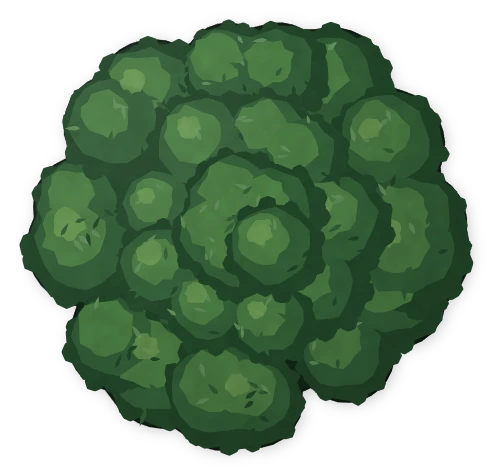
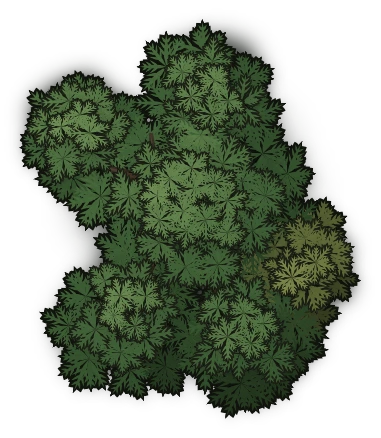
older trees share the forest tree's inked crowns
garden trees, shrubs, oaks and snowy trees reuse the forest crown
with their own palettes and leaf scale.

diff --git a/src/procedural/pesados/plantas.ts b/src/procedural/pesados/plantas.ts
@@ -46,7 +46,7 @@ function copaDeTufos(diametro: number, seed: number, tons: Tons, { miudo = 0.3, 
   return { tipo: 'piso', pegada: [diametro, diametro], partes };
 }
 
-const copaRedonda = (diametro: number, seed: number): DescricaoDePiso => copaDeTufos(diametro, seed, VERDE_CLARO, { miudo: 0.15, folhas: 9 });
+const copaRedonda = (diametro: number, seed: number): DescricaoDePiso => copaDeRaminhos(diametro, seed, { tons: JARDIM, variantes: [JARDIM_SOL, JARDIM_FRIO], folha: Math.min(0.85, 0.45 + diametro * 0.07), ralo: 0 });
 
 /**
  * Conífera vista de cima: silhueta de muitas pontas irregulares e, por cima, cinco camadas de ramos em lente fina, do escuro de fora ao claro
@@ -80,17 +80,27 @@ function conifera(diametro: number, seed: number, neve: boolean): DescricaoDePis
 
 const pinheiro = (diametro: number, seed: number): DescricaoDePiso => conifera(diametro, seed, false);
 /** Árvore vista de cima coberta de neve: copa de tufos brancos sombreados de azul, o verde só nas frestas. */
-const arvoreNevada = (diametro: number, seed: number): DescricaoDePiso => copaDeTufos(diametro, seed, NEVE, { miudo: 0.2, folhas: 0, tronco: false, recorte: 0 });
+const arvoreNevada = (diametro: number, seed: number): DescricaoDePiso => copaDeRaminhos(diametro, seed, { tons: NEVADA, variantes: [NEVADA_SOL, NEVADA_FRIA], folha: 0.9, ralo: 0.15, nanquim: ['#1a2330', '#2c3846'], galhos: '#3a3430' });
 /** Pinheiro de neve: a conífera com neve sobre cada ramo, do lado da luz. */
 const pinheiroNevado = (diametro: number, seed: number): DescricaoDePiso => conifera(diametro, seed, true);
 /** Carvalho: copa densa de muitos tufos pequenos, com folhas pintadas. */
-const carvalhoGrande = (diametro: number, seed: number): DescricaoDePiso => copaDeTufos(diametro, seed, VERDE, { miudo: 0.85, folhas: 7 });
+const carvalhoGrande = (diametro: number, seed: number): DescricaoDePiso => copaDeRaminhos(diametro, seed, { tons: CARVALHO, variantes: [CARVALHO_SOL, CARVALHO_FRIO], folha: 0.8, ralo: 0.05 });
 
 /** Tons da mata fechada: verde-oliva acinzentado, com moitas amareladas e outras mais frias (ver `copaDeRaminhos`). */
 const OLIVA: Tons = { fundo: '#272a1c', base: '#4a4e33', meio: '#5e633e', luz: '#777b4d', brilho: '#91935e' };
 const AMARELADO: Tons = { fundo: '#30291a', base: '#56492b', meio: '#6a5b35', luz: '#806e42', brilho: '#968352' };
 const FRIO: Tons = { fundo: '#20271e', base: '#384332', meio: '#46533f', luz: '#58654e', brilho: '#6f7b62' };
 const NANQUIM = '#12150e';
+/** Verdes das copas de raminhos fora da mata: carvalho (fundo e frio), jardim (vivo) e neve (branco sobre azul, o verde só nas frestas). */
+const CARVALHO: Tons = { fundo: '#1c2a17', base: '#33502c', meio: '#43663a', luz: '#5a7e48', brilho: '#76985a' };
+const CARVALHO_SOL: Tons = { fundo: '#2a2c18', base: '#4e582e', meio: '#64703a', luz: '#7e8a4a', brilho: '#98a25c' };
+const CARVALHO_FRIO: Tons = { fundo: '#16241c', base: '#2a4234', meio: '#365440', luz: '#466a50', brilho: '#5c8064' };
+const JARDIM: Tons = { fundo: '#1e3018', base: '#3a5e2e', meio: '#4c763a', luz: '#64904a', brilho: '#84ac5e' };
+const JARDIM_SOL: Tons = { fundo: '#2c3418', base: '#566a2e', meio: '#6c843a', luz: '#889e4a', brilho: '#a6b85e' };
+const JARDIM_FRIO: Tons = { fundo: '#1c2e1e', base: '#345634', meio: '#426a40', luz: '#568252', brilho: '#6e9a68' };
+const NEVADA: Tons = { fundo: '#3a4c58', base: '#9aaec4', meio: '#c4d2e2', luz: '#e4ecf4', brilho: '#ffffff' };
+const NEVADA_SOL: Tons = { fundo: '#465860', base: '#a8b8c8', meio: '#d0dce6', luz: '#eef2f6', brilho: '#ffffff' };
+const NEVADA_FRIA: Tons = { fundo: '#2e4050', base: '#8aa0ba', meio: '#b2c4da', luz: '#d6e2f0', brilho: '#f2f6fb' };
 /** A cor entre `a` e `b` (t de 0 a 1): os raminhos variam em tons contínuos, não em degraus. */
 function misturar(a: string, b: string, t: number): string {
   const p = (h: string, k: number) => parseInt(h.slice(1 + k * 2, 3 + k * 2), 16), c = [0, 1, 2].map(k => Math.round(p(a, k) + (p(b, k) - p(a, k)) * t));
@@ -126,11 +136,11 @@ function desenharRaminho(partes: Parte[], f: Raminho, cor: string, z: number, en
  * seguem as pontas das folhas. Moitas de tamanhos bem diferentes dão o contorno irregular; galhos aparecem entre as camadas; os vãos são
  * escuros. A luz vem do noroeste. `ralo` (0 a 1) espaça os raminhos.
  */
-function copaDeRaminhos(diametro: number, seed: number, { ralo = 0.2, tons = OLIVA }: { ralo?: number; tons?: Tons } = {}): DescricaoDePiso {
-  const r = mulberry32(seed), R = diametro / 2 - 0.3, partes: Parte[] = [];
+function copaDeRaminhos(diametro: number, seed: number, { ralo = 0.2, tons = OLIVA, variantes = [AMARELADO, FRIO], folha = 1, nanquim = [NANQUIM, '#1d2116'], galhos = '#4a3828' }: { ralo?: number; tons?: Tons; variantes?: readonly [Tons, Tons]; folha?: number; nanquim?: readonly [string, string]; galhos?: string } = {}): DescricaoDePiso {
+  const r = mulberry32(seed), R = diametro / 2 - 0.3 * folha, partes: Parte[] = [];
   // Moitas: uma grande perto do miolo e de 2 a 6 em volta, com raios bem diferentes; a copa é a união delas.
   const moitas: { x: number; y: number; r: number; tons: Tons }[] = [];
-  const variar = (): Tons => (r() < 0.14 ? (r() < 0.4 ? AMARELADO : FRIO) : tons);
+  const variar = (): Tons => (r() < 0.14 ? (r() < 0.4 ? variantes[0] : variantes[1]) : tons);
   moitas.push({ x: (r() - 0.5) * R * 0.25, y: (r() - 0.5) * R * 0.25, r: R * (0.5 + r() * 0.1), tons: variar() });
   const nM = 2 + Math.floor(R * 0.8 + r() * 2), giro = r() * Math.PI * 2;
   for (let i = 0; i < nM; i++) {
@@ -143,10 +153,10 @@ function copaDeRaminhos(diametro: number, seed: number, { ralo = 0.2, tons = OLI
   const nG = 4 + Math.floor(r() * 3);
   for (let i = 0; i < nG; i++) {
     const a = (i / nG) * Math.PI * 2 + r() * 0.7, len = R * (0.38 + r() * 0.18), mx = Math.cos(a) * len * 0.5 + (r() - 0.5) * 0.3, my = Math.sin(a) * len * 0.5 + (r() - 0.5) * 0.3;
-    partes.push(tira([0, 0, mx, my, Math.cos(a + (r() - 0.5) * 0.4) * len, Math.sin(a + (r() - 0.5) * 0.4) * len], 0.1 + R * 0.025, '#4a3828', 2.12, { contorno: 'leve', semSombra: true, detalhe: 1 }, 0.3));
+    partes.push(tira([0, 0, mx, my, Math.cos(a + (r() - 0.5) * 0.4) * len, Math.sin(a + (r() - 0.5) * 0.4) * len], (0.1 + R * 0.025) * Math.min(1, folha * 1.5), galhos, 2.12, { contorno: 'leve', semSombra: true, detalhe: 1 }, 0.3));
   }
   // Camadas: raio do raminho, até onde vai na moita e a altura.
-  const camadas = [{ raio: 0.68, alcance: 0.92, z: 2 }, { raio: 0.56, alcance: 0.66, z: 2.3 }, { raio: 0.45, alcance: 0.4, z: 2.6 }];
+  const camadas = [{ raio: 0.68 * folha, alcance: 0.92, z: 2 }, { raio: 0.56 * folha, alcance: 0.66, z: 2.3 }, { raio: 0.45 * folha, alcance: 0.4, z: 2.6 }];
   camadas.forEach((cam, c) => {
     const lista: { f: Raminho; cor: string }[] = [], minimo = cam.raio * (0.85 + ralo * 0.6);
     for (const m of moitas) {
@@ -164,7 +174,7 @@ function copaDeRaminhos(diametro: number, seed: number, { ralo = 0.2, tons = OLI
     }
     // Os de fora primeiro: o miolo fica por cima.
     lista.sort((p, q) => Math.hypot(q.f.x, q.f.y) - Math.hypot(p.f.x, p.f.y));
-    for (const { f } of lista) desenharRaminho(partes, f, c === 0 ? NANQUIM : '#1d2116', cam.z, c === 0 ? 0.05 : 0.032, true);
+    for (const { f } of lista) desenharRaminho(partes, f, nanquim[c === 0 ? 0 : 1], cam.z, (c === 0 ? 0.05 : 0.032) * Math.min(1, folha * 1.4), true);
     lista.forEach(({ f, cor }, i) => desenharRaminho(partes, f, cor, cam.z + 0.01 + (i / lista.length) * 0.02, 0, false));
   });
   return { tipo: 'piso', pegada: [diametro, diametro], partes };
@@ -204,8 +214,8 @@ function folhagemTropical(diametro: number, seed: number): DescricaoDePiso {
 }
 
 function arbusto(diametro: number, seed: number, flores: string | null): DescricaoDePiso {
-  const g = copaDeTufos(diametro, seed, VERDE_CLARO, { miudo: 0.4, folhas: 3, tronco: false }), r = mulberry32(seed + 5), partes = g.partes;
-  if (flores) for (let i = 0; i < 26; i++) { const a = r() * Math.PI * 2, d = (diametro / 2) * Math.sqrt(r()) * 0.85; partes.push(elipse(Math.cos(a) * d, Math.sin(a) * d, 0.07, 0.07, flores, 5.5 + r() * 0.2, { contorno: false, semSombra: true, detalhe: 3 })); }
+  const g = copaDeRaminhos(diametro, seed, { tons: JARDIM, variantes: [JARDIM_SOL, JARDIM_FRIO], folha: 0.36, ralo: 0 }), r = mulberry32(seed + 5), partes = g.partes;
+  if (flores) for (let i = 0; i < 26; i++) { const a = r() * Math.PI * 2, d = (diametro / 2) * Math.sqrt(r()) * 0.5; partes.push(elipse(Math.cos(a) * d, Math.sin(a) * d, 0.07, 0.07, flores, 5.5 + r() * 0.2, { contorno: false, semSombra: true, detalhe: 3 })); }
   return { tipo: 'piso', pegada: g.pegada, partes };
 }
 
@@ -258,22 +268,22 @@ export const PLANTAS: GeradorPesado[] = [
     variantes: DUAS('a', {}, 'b', {}), gerar: p => samambaia(p.seed) },
   { id: 'costela-de-adao', nome: 'Costela-de-adão', categoria: 'decoracao', funcoes: ['sala', 'quarto', 'escritorio', 'corredor'], tags: ['planta', 'monstera', 'vaso', 'folhagem'], generos: [], kit: null, versao: 1,
     variantes: DUAS('madeira', { vaso: 'madeira.escura' }, 'pedra', { vaso: 'pedra.escura' }), gerar: p => monstera(p.seed, String(p.params.vaso ?? 'madeira.escura')) },
-  { id: 'arvore', altura: ([w]) => w * 1.6, nome: 'Árvore', categoria: 'exterior', funcoes: ['jardim'], tags: ['arvore', 'planta', 'copa', 'exterior'], generos: [], kit: 'exterior', versao: 3, res: 64,
+  { id: 'arvore', altura: ([w]) => w * 1.6, nome: 'Árvore', categoria: 'exterior', funcoes: ['jardim'], tags: ['arvore', 'planta', 'copa', 'exterior'], generos: [], kit: 'exterior', versao: 5, res: 64,
     variantes: [{ nome: '3 m', sufixo: '3m', params: { diametro: 3 }, seed: 31 }, { nome: '5 m', sufixo: '5m', params: { diametro: 5 }, seed: 32 }, { nome: '7 m', sufixo: '7m', params: { diametro: 7 }, seed: 33 }],
     gerar: p => copaRedonda(num(p.params.diametro, 5, 2, 10), p.seed) },
   { id: 'pinheiro', altura: ([w]) => w * 2, nome: 'Pinheiro', categoria: 'exterior', funcoes: ['jardim'], tags: ['arvore', 'pinheiro', 'conifera', 'exterior'], generos: [], kit: 'exterior', versao: 3, res: 64,
     variantes: [{ nome: '3 m', sufixo: '3m', params: { diametro: 3 }, seed: 41 }, { nome: '4,5 m', sufixo: '4m', params: { diametro: 4.5 }, seed: 42 }], gerar: p => pinheiro(num(p.params.diametro, 3, 2, 8), p.seed) },
-  { id: 'arbusto', altura: ([w]) => w * 0.5, nome: 'Arbusto', categoria: 'exterior', funcoes: ['jardim'], tags: ['arbusto', 'planta', 'exterior'], generos: [], kit: 'exterior', versao: 3,
+  { id: 'arbusto', altura: ([w]) => w * 0.5, nome: 'Arbusto', categoria: 'exterior', funcoes: ['jardim'], tags: ['arbusto', 'planta', 'exterior'], generos: [], kit: 'exterior', versao: 5,
     variantes: [{ nome: 'verde', sufixo: 'verde', params: { diametro: 1.4 }, seed: 51 }, { nome: 'florido', sufixo: 'florido', params: { diametro: 1.6, flores: '#d94a6a' }, seed: 52 }, { nome: 'grande', sufixo: 'grande', params: { diametro: 2.2 }, seed: 53 }],
     gerar: p => arbusto(num(p.params.diametro, 1.5, 0.8, 4), p.seed, typeof p.params.flores === 'string' ? p.params.flores : null) },
-  { id: 'arvore-nevada', altura: ([w]) => w * 1.6, nome: 'Árvore nevada', categoria: 'exterior', funcoes: ['jardim'], tags: ['arvore', 'planta', 'copa', 'exterior', 'inverno', 'neve'], generos: [], kit: 'ermos', versao: 3, res: 64,
+  { id: 'arvore-nevada', altura: ([w]) => w * 1.6, nome: 'Árvore nevada', categoria: 'exterior', funcoes: ['jardim'], tags: ['arvore', 'planta', 'copa', 'exterior', 'inverno', 'neve'], generos: [], kit: 'ermos', versao: 4, res: 64,
     variantes: [{ nome: '3 m', sufixo: '3m', params: { diametro: 3 }, seed: 61 }, { nome: '5 m', sufixo: '5m', params: { diametro: 5 }, seed: 62 }], gerar: p => arvoreNevada(num(p.params.diametro, 4, 2, 8), p.seed) },
   { id: 'pinheiro-nevado', altura: ([w]) => w * 2, nome: 'Pinheiro nevado', categoria: 'exterior', funcoes: ['jardim'], tags: ['arvore', 'pinheiro', 'conifera', 'exterior', 'inverno', 'neve'], generos: [], kit: 'ermos', versao: 3, res: 64,
     variantes: [{ nome: '3 m', sufixo: '3m', params: { diametro: 3 }, seed: 71 }, { nome: '4,5 m', sufixo: '4m', params: { diametro: 4.5 }, seed: 72 }], gerar: p => pinheiroNevado(num(p.params.diametro, 3, 2, 8), p.seed) },
   { id: 'arbusto-seco', altura: ([w]) => w * 0.4, nome: 'Arbusto seco', categoria: 'exterior', funcoes: ['jardim'], tags: ['arbusto', 'planta', 'exterior', 'inverno', 'seco'], generos: [], kit: 'ermos', versao: 2, res: 64,
     variantes: [{ nome: '1,2 m', sufixo: '1m', params: { diametro: 1.2 }, seed: 81 }, { nome: '2 m', sufixo: '2m', params: { diametro: 2 }, seed: 82 }, { nome: '2 m com neve', sufixo: '2m-neve', params: { diametro: 2, neve: true }, seed: 83 }],
     gerar: p => arbustoSeco(num(p.params.diametro, 1.5, 0.8, 4), p.seed, p.params.neve === true) },
-  { id: 'carvalho-grande', altura: ([w]) => w * 1.6, nome: 'Carvalho grande', categoria: 'exterior', funcoes: ['jardim'], tags: ['arvore', 'carvalho', 'planta', 'copa', 'exterior', 'mata'], generos: [], kit: 'mata', versao: 2, res: 64,
+  { id: 'carvalho-grande', altura: ([w]) => w * 1.6, nome: 'Carvalho grande', categoria: 'exterior', funcoes: ['jardim'], tags: ['arvore', 'carvalho', 'planta', 'copa', 'exterior', 'mata'], generos: [], kit: 'mata', versao: 3, res: 64,
     variantes: [{ nome: '6 m', sufixo: '6m', params: { diametro: 6 }, seed: 91 }, { nome: '7 m', sufixo: '7m', params: { diametro: 7 }, seed: 92 }, { nome: '8 m', sufixo: '8m', params: { diametro: 8 }, seed: 93 }], gerar: p => carvalhoGrande(num(p.params.diametro, 7, 5, 10), p.seed) },
   { id: 'arvore-da-mata', altura: ([w]) => w * 1.7, nome: 'Árvore da mata', categoria: 'exterior', funcoes: ['jardim'], tags: ['arvore', 'planta', 'copa', 'exterior', 'mata', 'floresta'], generos: [], kit: 'mata', versao: 12, res: 64,
     variantes: [{ nome: '4 m', sufixo: '4m', params: { diametro: 4 }, seed: 111 }, { nome: '6 m', sufixo: '6m', params: { diametro: 6 }, seed: 112 }, { nome: '8 m', sufixo: '8m', params: { diametro: 8 }, seed: 113 }, { nome: '6 m, ralinha', sufixo: '6m-rala', params: { diametro: 6, ralo: 0.7 }, seed: 114 }, { nome: '5 m, amarelada', sufixo: '5m-amarelada', params: { diametro: 5, tons: 'amarelado' }, seed: 115 }],

diff --git a/docs/plano/epocas-e-cenarios.md b/docs/plano/epocas-e-cenarios.md
@@ -264,7 +264,7 @@ Commit: `added post-apocalyptic and cyberpunk floors, walls and roofs`
 
 ## Bloco 5 — Biomas
 
-### Q13a — Árvores antigas no padrão novo  ⬜ **[Opus]**
+### Q13a — Árvores antigas no padrão novo  ✅ **[Opus]**
 Objetivo: `arvore`, `carvalho-grande`, `pinheiro`, `arbusto`, `arvore-nevada`, `pinheiro-nevado` e `arbusto-seco` ficam na mesma qualidade da `arvore-da-mata` v12 (copa em nanquim, folhas em tufos, luz e sombra próprias).
 Depende de: —. Vem antes da Q13, que usa a mesma técnica para as árvores dos biomas.
 Problema (captura do usuário no Jardim do Colosso, 2026-11-20): o `carvalho-grande` (v2) e a `arvore` (v3) são bolas lisas e genéricas ao lado da `arvore-da-mata` refeita para o Acampamento.
@@ -272,6 +272,7 @@ Ler: `src/procedural/pesados/plantas.ts` (o gerador da `arvore-da-mata` e os ant
 Como: extrair da `arvore-da-mata` uma copa parametrizada (tamanho do tufo, densidade, tons, silhueta) e refazer os antigos sobre ela, cada um com caráter próprio: o carvalho largo e irregular, a árvore comum redonda, os pinheiros em camadas de agulhas, as versões nevadas com neve nos tufos de cima. Sobe a `versao` de cada gerador e reassa com `npm run assar`.
 Pronto quando: uma prancha com as árvores antigas e as da mata lado a lado não tem uma árvore que destoe; o Jardim do Colosso e o Desfiladeiro Nevado regenerados ficam melhores que antes.
 Commit: `older trees share the forest tree's inked crowns`
+Nota: a `copaDeRaminhos` ganhou `variantes`, `folha` (escala do raminho), `nanquim` e `galhos`; os padrões não mudaram, então a `arvore-da-mata` saiu igual. `arvore`, `arbusto`, `carvalho-grande` e `arvore-nevada` passaram a usá-la, cada uma com a sua paleta. Os pinheiros ficaram como estavam (já em camadas de agulhas). As miniaturas dos exemplos não foram regeneradas: o Jardim do Colosso tinha mudanças de outra sessão em aberto.
 
 ### Q13 — Árvores e plantas geradas  ⬜ **[Opus]**
 Objetivo: a vegetação dos biomas novos.

diff --git a/progress.md b/progress.md
@@ -704,4 +704,5 @@ A Fase 9 está concluída. A Fase 6 está concluída, menos a 6.2b (importar os 
 - **Q5–Q6 (2026-11-20):** curadoria CC0 dos 25 terrenos da frente aprovada; os onze materiais do lote 2 (gramas escura e acinzentada, lama, areias, cascalho, pedregulho, neves, terra congelada) são pintados com textura. Prancha em `scripts/dev/prancha-terreno.ts`.
 - **Q2 (2026-11-21):** a biblioteca filtra por época (padrão: gênero do mapa, mais os que ele herda; chips por gênero e "Todas") e por bioma (Natureza e gaveta de terreno); a busca ignora o filtro e marca o que está fora com selo; recentes e favoritos não filtram. Preferências em `localStorage` (`atlas.filtroDeEpoca`, `atlas.filtroDeBioma`).
 - **Q2b (2026-11-21):** biblioteca enxuta: busca e dois `<select>` (Grupo e Época) numa linha, bioma em `<select>` só na Natureza e na gaveta de terreno, Recentes/Favoritos recolhidos e, nas propriedades, só Escala e Rotação à vista, com o resto em "Ver mais…" (estado no `localStorage`).
+- **Q13a (2026-11-20):** árvore, arbusto, carvalho e árvore nevada refeitos sobre a copa de raminhos em nanquim da árvore da mata.
 - **Pendências da Frente P (2026-11-21):** carimbo `gravetos` (gravetos pálidos soltos, sem nanquim) em `src/procedural/receitas/chao.ts`, na família de folhiço, no `mata-fechada` e no acampamento; sombra das árvores mais rala (`TRANSPARENCIA_DA_COPA = 0.62` em `src/render/sombras-do-sol.ts`). Jardim do colosso refeito (60 × 34 m, manhã dourada) com a receita `sombra-de-colosso`, que entra na camada das sombras do sol (tag `sombra-projetada`).
